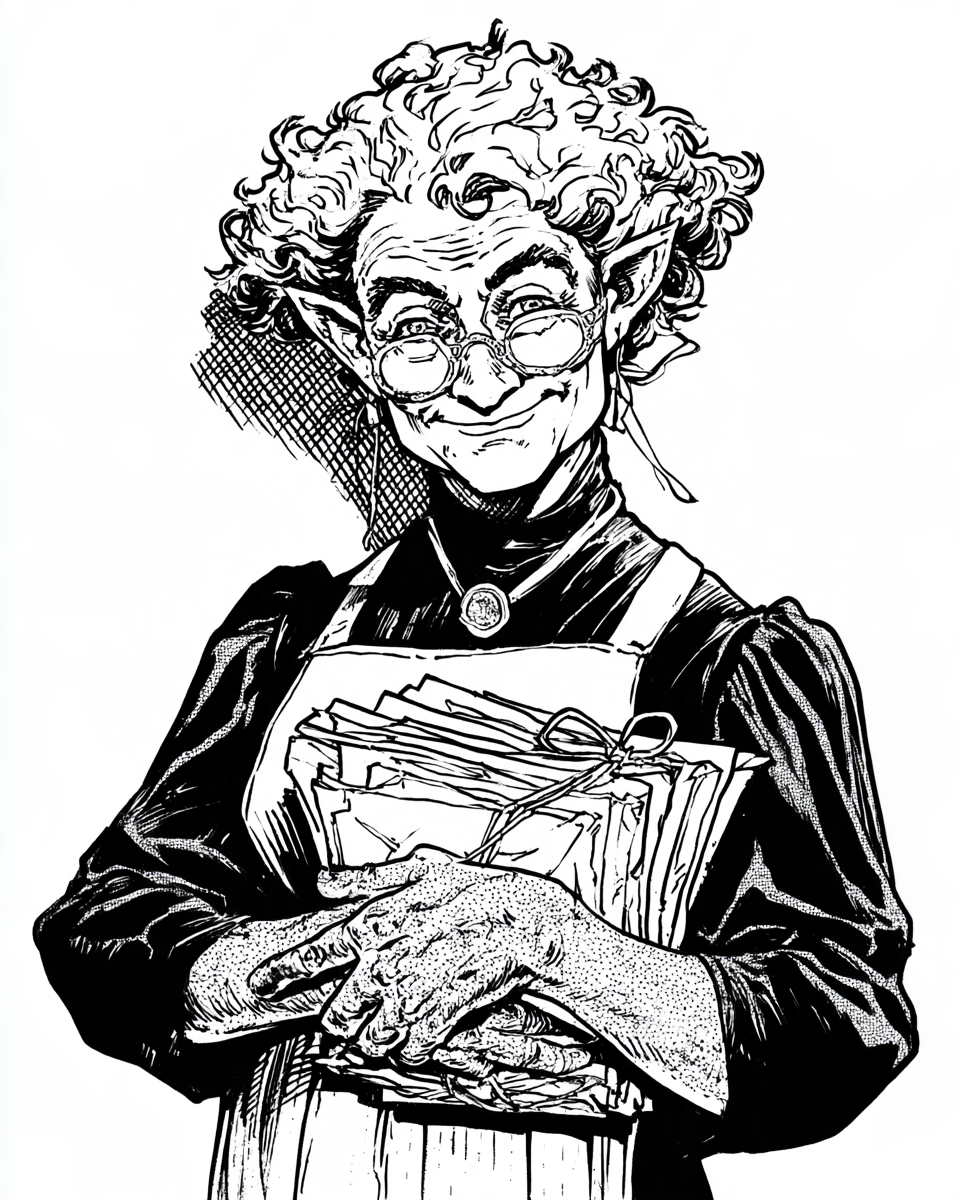
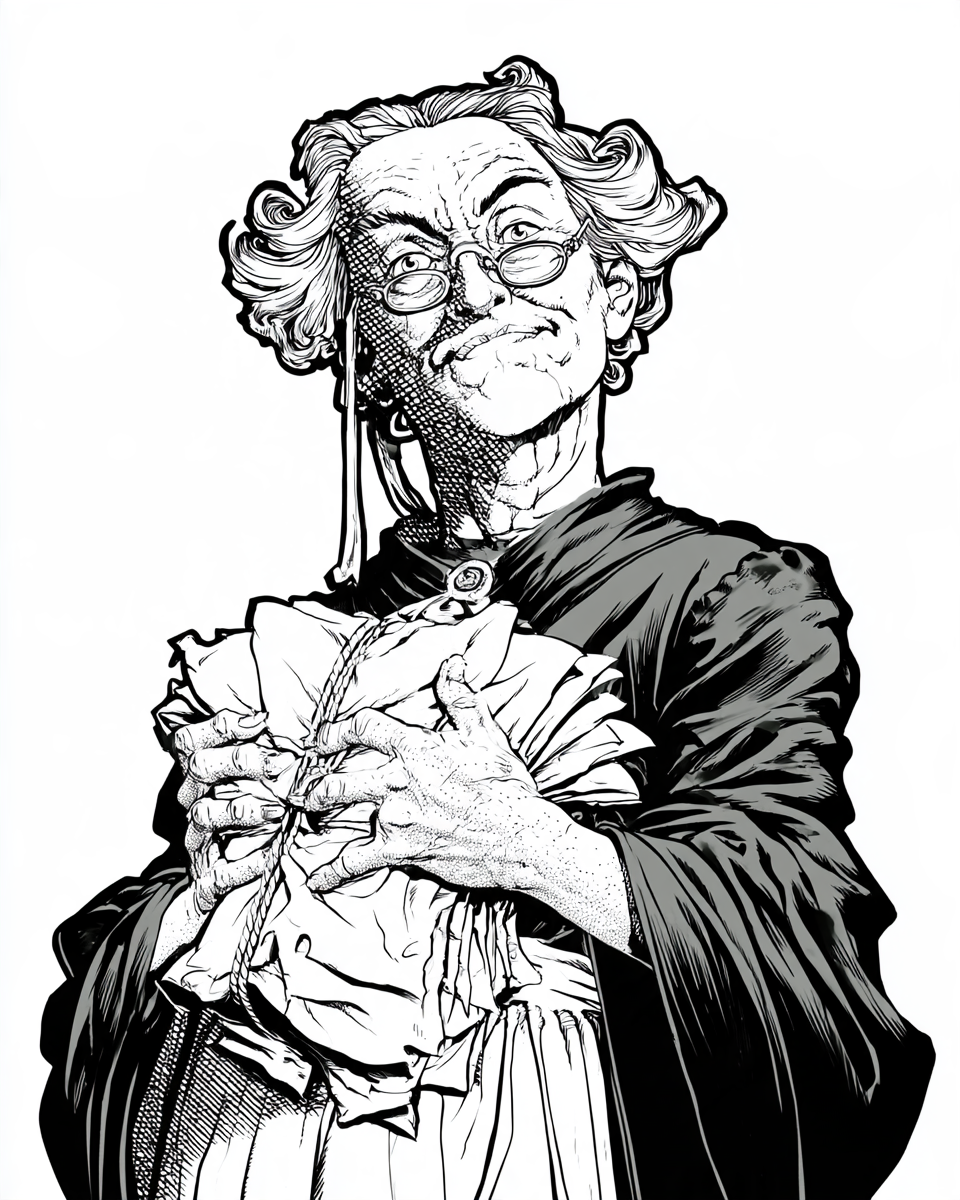
vault auto-sync: 6 files changed
Affected files:
10-Adventures/SP-GQ00 — The Shadow on the Quag/SP-GQ00 — Art Brief.md
10-Adventures/SP-GQ00 — The Shadow on the Quag/SP-GQ00 — Prologue — The Crossing.md
40-Locations/The Landing.md
40-Locations/The University Post-House.md
99-Assets/SP-SQ/portraits/SP-GQ00 Portrait - Agnes Feldhaus.png
TaskNotes/Views/agenda-default.base

diff --git a/10-Adventures/SP-GQ00 — The Shadow on the Quag/SP-GQ00 — Art Brief.md b/10-Adventures/SP-GQ00 — The Shadow on the Quag/SP-GQ00 — Art Brief.md
@@ -132,8 +132,9 @@ six thick silver coins spilling out of a rolled wool stocking, each coin stamped
 ## Checklist
 - [x] P1 Cover (2026-11-13: `cover/SP-GQ00 — Cover.png`; use as the `--sref` for the rest of the set)
 - [x] P2 Arc opener (2026-11-13; at the head of Part One)
-- [x] P3 Post-House (keep; upscale) · [ ] P4 Casting Off (re-roll: Fesch must be a thin *young* clerk; check Brandmeier vs GQ1 portrait) · [ ] P5 First Night (re-roll: Liesl 15, enclosed below deck, strap lifting by itself) · [ ] P6 Into the Grey (re-roll: a lamp in *each* hand; cog not longship; lighter) · [x] P7 The Drowned (fix: replace the real-world cross with a sun disc) · [x] P8 Isle in the Grey (keep; upscale)
-- [ ] P9 Agnes Feldhaus (re-roll: drawn with pointed elf ears; add "human, rounded ears") · [x] P10 Mother Gunde · [x] P14 Machteld Vreeswijk
+- [x] P3 Post-House · [x] P4 Casting Off · [x] P5 First Night · [x] P6 Into the Grey (Ruder at a wheel, not a tiller; acceptable) · [x] P7 The Drowned (sun disc) · [x] P8 Isle in the Grey
+- [ ] **Upscale before print:** S1–S5 and S4b are 1344×896 (need ~2250 px wide for a half page). S2–S5 measure 58–63% solid black: test-print before layout.
+- [x] P9 Agnes Feldhaus (check the flat grey robe after 1-bit conversion) · [x] P10 Mother Gunde · [x] P14 Machteld Vreeswijk
 - [x] P11 Fog-Drowned plate · [x] P12 Letter-case · [x] P13 Dorakaa silver
 - [ ] Density check (25–45% solid black) on every scene before upscaling
 - [x] Cover plaque: `99-Assets/_Covers/Cover — The Shadow on the Quag.png` (2026-11-13)

diff --git a/10-Adventures/SP-GQ00 — The Shadow on the Quag/SP-GQ00 — Prologue — The Crossing.md b/10-Adventures/SP-GQ00 — The Shadow on the Quag/SP-GQ00 — Prologue — The Crossing.md
@@ -253,6 +253,9 @@ If the students attack Fesch, pull his glove, or drag him into the light, his *d
 ### Scene 6: The Landing (Harvester 21) (20 min)
 *Purpose:* deliver the letter; set up GQ1.
 
+> [!art]+ Scene 6 — The Landing
+> ![[Ritterstadt the-landing.jpg|600]]
+
 > *Ritterstadt comes out of the morning haze: a palisade on a rise above the lake with a raw new stretch of timber at the eastern gate, peat-smoke, the Wachturm on the highest ground. The* Hecht *noses in among the Rhennee barges at the Landing. An old woman in layered skirts stands on the quay with a knotted cord at her belt, counting the salt sacks before the gangplank is down.*
 
 - **[[Baba Yeska Marovna]]** charges the *Hecht*'s toll and looks the ship over. If told the *Hecht* went into the grey: *"And came out. Mind you're grateful. The Ket woman up at the University read me calm water all week. Calm is what puts you in the grey."* If asked about the isle (P4): *"There's an isle in the grey. Nobody fishes it. Somebody keeps a fire there in winter."*

diff --git a/40-Locations/The University Post-House.md b/40-Locations/The University Post-House.md
@@ -7,6 +7,9 @@ tags: [location, schwartzenbruin, greyhawk-university, shadow-on-the-quag]
 
 # The University Post-House
 
+> [!art]+ The Post-House
+> ![[SP-GQ00 — S1 Post-House.png|600]]
+
 Two rooms over a chandler's on the Schwartzenbruin waterfront, kept by [[Agnes Feldhaus]]. The City of Greyhawk's post for the Ritterstadt Field Station comes up the Velverdyva with the river post and goes north on whatever ship is sailing. It smells of tar and sealing-wax.
 
 ## Notable Features

diff --git a/40-Locations/The Landing.md b/40-Locations/The Landing.md
@@ -9,6 +9,9 @@ aliases: [the Landing, the quay]
 
 # The Landing (the Quay)
 
+> [!art]+ The Landing
+> ![[Ritterstadt the-landing.jpg|600]]
+
 > Ritterstadt is a lake port, and this is its front door: a timber quay below the palisade on Lake Quag's north shore, the town's road south by water.
 
 ## Outside
